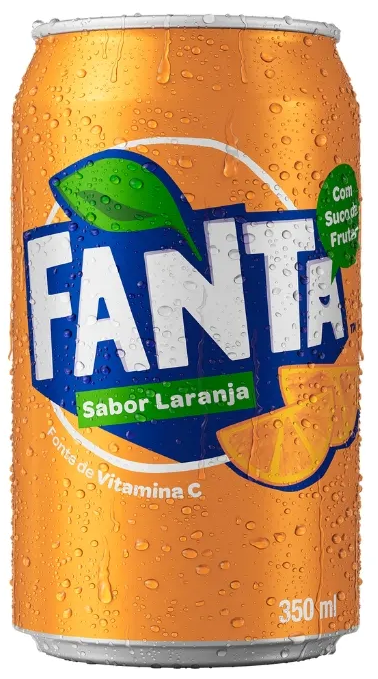
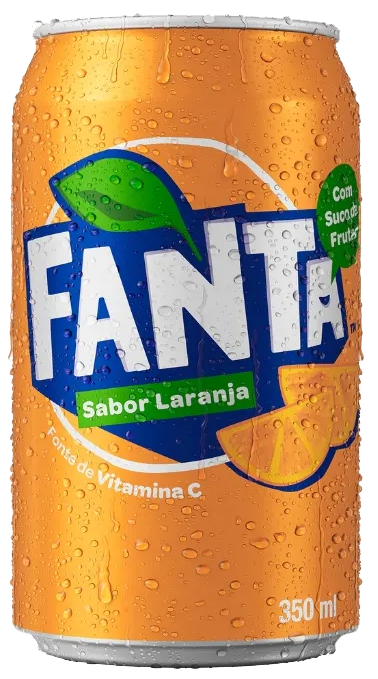
imagens das bebidas atualizadas e alteração na maneira de visualição das imagens

diff --git a/static/css/estilo.css b/static/css/estilo.css
@@ -295,7 +295,7 @@ body {
 .produto img {
     width: 100px;
     height: 100px;
-    object-fit: cover;
+    object-fit: contain;
     border-radius: 8px;
     transition: transform 0.3s ease-in-out;
 }
@@ -477,6 +477,7 @@ body {
     .conteudo-grid-infoproduto img {
         width: 500px;
         height: 500px;
+        object-fit: contain;
     }
 
     .conteudo-grid-infoproduto p:first-of-type {

diff --git a/inserir.py b/inserir.py
@@ -1,0 +1,45 @@
+import sqlite3
+import os
+
+# Caminho correto para o banco dentro da pasta instance
+caminho_banco = os.path.join("instance", "site.db")
+
+# Conexão com o banco
+conn = sqlite3.connect(caminho_banco)
+cursor = conn.cursor()
+
+# Lista de bebidas
+bebidas = [
+    ("Fanta Laranja 2l", "Bebida", 1, "Refrigerante sabor laranja de 2 litros, ideal para compartilhar.", "fantalaranja2l.png"),
+    ("Fanta Laranja em Lata", "Bebida", 1, "Fanta Laranja em lata, refrescante e perfeita para uma pausa rápida.", "fantalaranjalata.png"),
+    ("Fanta Uva 2l", "Bebida", 1, "Refrigerante sabor uva de 2 litros, sabor marcante para todos os momentos.", "fantauva2l.png"),
+    ("Fanta Uva em Lata", "Bebida", 1, "Fanta Uva em lata, prática e deliciosa para qualquer ocasião.", "fantauvalata.png"),
+    ("Guaraná 2l", "Bebida", 1, "Tradicional refrigerante de guaraná em embalagem de 2 litros.", "guarana2l.png"),
+    ("Guaraná em Lata", "Bebida", 1, "Guaraná em lata, sabor brasileiro em dose individual.", "guaranalata.png"),
+    ("Guaraná Zero em Lata", "Bebida", 1, "Guaraná sem açúcar, em lata, para quem busca leveza sem perder o sabor.", "guaranazerolata.png"),
+    ("Pepsi 2l", "Bebida", 1, "Refrigerante Pepsi em garrafa de 2 litros, refrescância para dividir.", "pepsi2l.png"),
+    ("Pepsi Black em Lata", "Bebida", 1, "Pepsi Black sem açúcar em lata, ideal para acompanhar lanches.", "pepsiblacklata.png"),
+    ("Pepsi Lata", "Bebida", 1, "Pepsi tradicional em lata, sabor intenso e refrescante.", "pepsilata.png"),
+    ("Sprite 2l", "Bebida", 1, "Sprite limonada gaseificada, embalagem de 2 litros.", "sprite2l.png"),
+    ("Sprite Em Lata", "Bebida", 1, "Sprite em lata, refrescante e com sabor cítrico.", "spritelata.png"),
+    ("Suco Laranja", "Bebida", 1, "Suco natural sabor laranja, rico em vitamina C.", "sucolaranja.png"),
+    ("Suco Limão", "Bebida", 1, "Suco de limão, levemente ácido e muito refrescante.", "sucolimao.png"),
+    ("Suco Maracujá", "Bebida", 1, "Suco de maracujá, sabor tropical e calmante.", "sucomaracuja.png"),
+    ("Suco Uva", "Bebida", 1, "Suco de uva concentrado, doce e nutritivo.", "sucouva.png"),
+    ("Sukita Uva 2L", "Bebida", 1, "Refrigerante Sukita sabor uva em garrafa de 2 litros.", "sukita2.png"),
+    ("Sukita Laranja 2l", "Bebida", 1, "Sukita laranja com muito gás e sabor, embalagem 2 litros.", "sukitalaranja2I.png"),
+    ("Sukita Laranja em Lata", "Bebida", 1, "Sukita laranja em lata, perfeita para lanches rápidos.", "sukitalaranjalata.png"),
+    ("Sukita Uva em Lata", "Bebida", 1, "Sukita uva em lata, com sabor marcante e refrescante.", "sukitalata.png")
+]
+
+# Inserção dos dados
+cursor.executemany("""
+    INSERT INTO lanche (nomeLanche, tipo, valor, descricao, img)
+    VALUES (?, ?, ?, ?, ?)
+""", bebidas)
+
+# Salvar e fechar
+conn.commit()
+conn.close()
+
+print("Dados inseridos com sucesso!")
